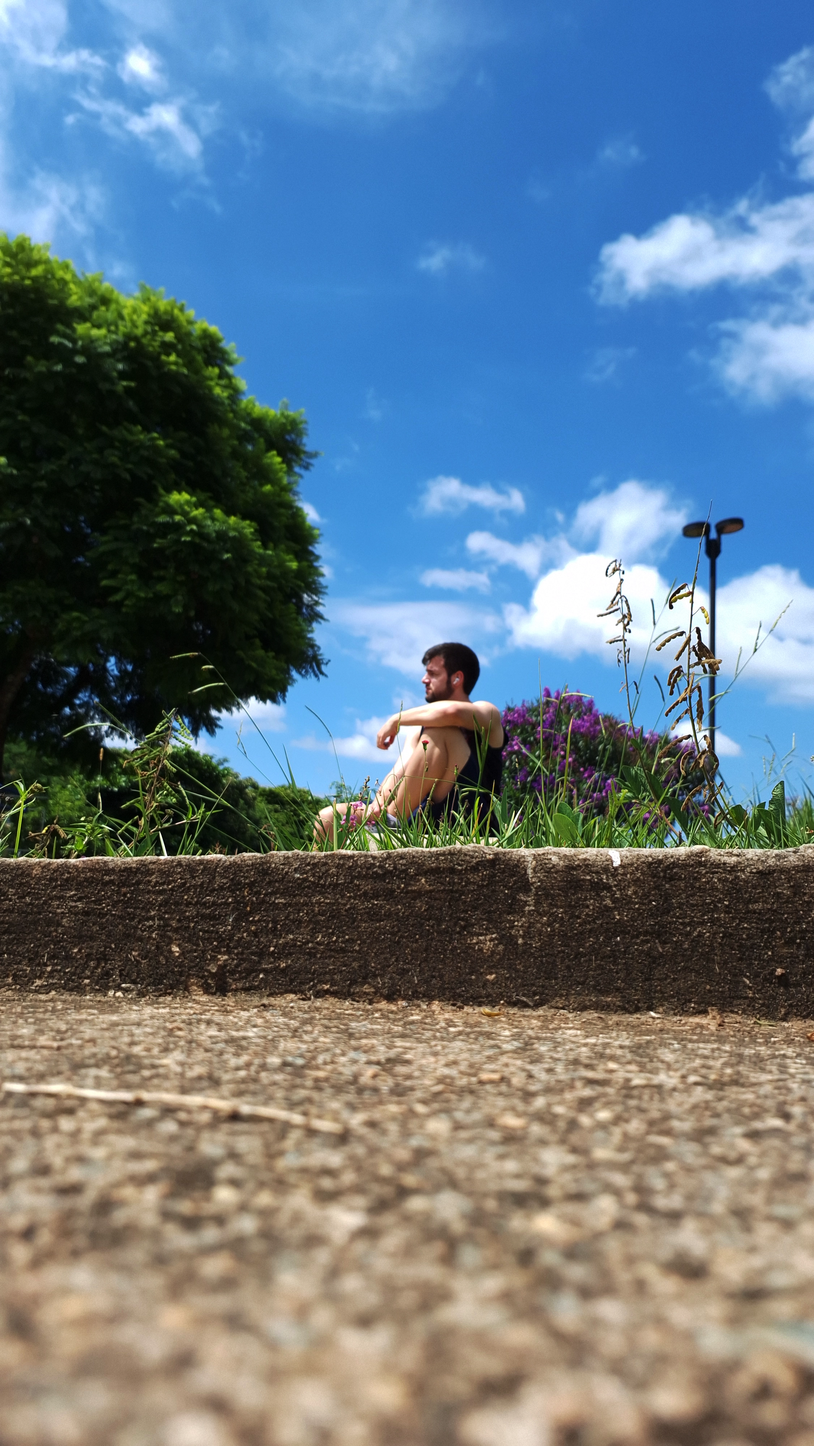
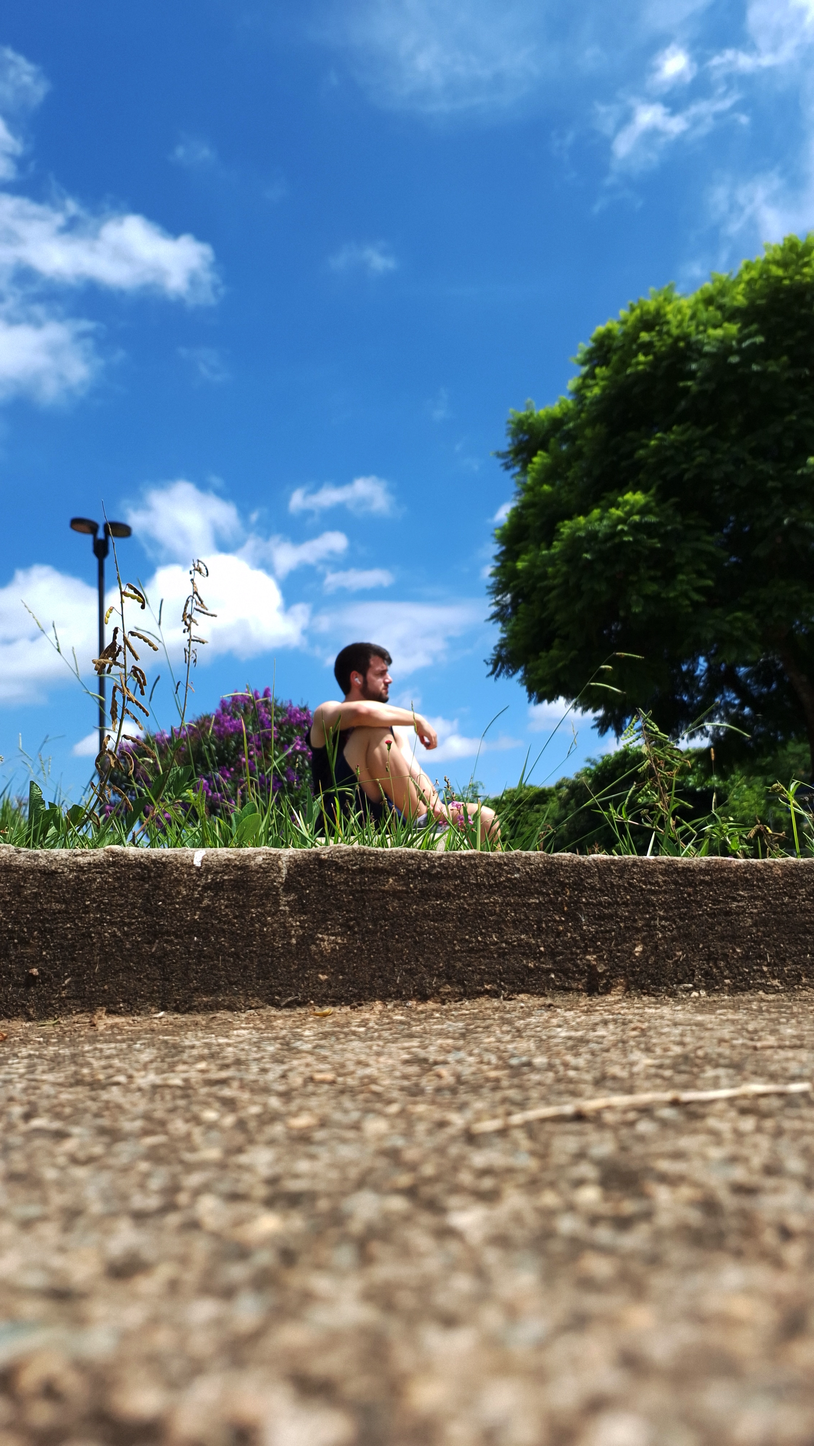
:wrench: chore: change photo directions

diff --git a/src/components/Header/HeaderMenu/index.tsx b/src/components/Header/HeaderMenu/index.tsx
@@ -21,7 +21,7 @@ const items = [
   },
   {
     name: 'Services',
-    link: 'https://felipescherer.com',
+    link: 'https://services.fennectales.com',
   },
   {
     name: 'Projects',
@@ -29,7 +29,7 @@ const items = [
   },
   {
     name: 'Blog',
-    link: 'https://blog.felipescherer.com',
+    link: 'https://fennectales.com',
   },
   {
     name: 'Now',
@@ -49,26 +49,26 @@ export function HeaderMenu() {
       </button>
 
       {
-      isMenuOpen && (
-        <button type="button" onClick={() => setIsMenuOpen(false)} className="fixed right-0 top-0 h-full w-full cursor-default bg-[#000000af]" />
-      )
+        isMenuOpen && (
+          <button type="button" onClick={() => setIsMenuOpen(false)} className="fixed right-0 top-0 h-full w-full cursor-default bg-[#000000af]" />
+        )
       }
 
       {
-      isMenuOpen && (
-        <div className="fixed right-0 top-0 flex h-full flex-col items-start gap-4 bg-layer-1 px-8 pt-8">
-          <button type="button" onClick={() => setIsMenuOpen(false)} className="text-on-layer-0-l2 transition-colors hover:text-brand-primary focus:text-brand-primary">
-            <LucideX />
-          </button>
+        isMenuOpen && (
+          <div className="fixed right-0 top-0 flex h-full flex-col items-start gap-4 bg-layer-1 px-8 pt-8">
+            <button type="button" onClick={() => setIsMenuOpen(false)} className="text-on-layer-0-l2 transition-colors hover:text-brand-primary focus:text-brand-primary">
+              <LucideX />
+            </button>
 
-          {items.map(item => (
-            <Link onClick={() => setIsMenuOpen(false)} key={item.name} href={item.link} className={`border-b transition-all hover:border-brand-primary hover:text-brand-hover-primary ${currentPath === item.link ? 'border-brand-primary text-brand-primary' : 'border-transparent text-on-layer-0-l2 '}`}>{item.name}</Link>
-          ))}
+            {items.map(item => (
+              <Link onClick={() => setIsMenuOpen(false)} key={item.name} href={item.link} className={`border-b transition-all hover:border-brand-primary hover:text-brand-hover-primary ${currentPath === item.link ? 'border-brand-primary text-brand-primary' : 'border-transparent text-on-layer-0-l2 '}`}>{item.name}</Link>
+            ))}
 
-          <LocaleSwitcher />
-        </div>
-      )
-    }
+            <LocaleSwitcher />
+          </div>
+        )
+      }
 
     </>
   )

diff --git a/src/utils/owner.config.ts b/src/utils/owner.config.ts
@@ -6,9 +6,9 @@ export const OWNER_CONFIGS = {
   name: 'Felipe Scherer',
   user: 'fescherer',
   description: 'This is a blog owned by Felipe Scherer, and we write about technology, specially coding and design, bringing ideias and how to build them 😊 Feel free to contact us on our socials. 📱',
-  rss: 'https://blog.felipescherer.com/feed.xml',
+  rss: 'https://fennectales.com/feed.xml',
   github_link: 'https://github.com/fescherer',
   linkedin_link: 'https://www.linkedin.com/in/fescherer',
-  blog_link: 'https://blog.felipescherer.com',
+  blog_link: 'https://fennectales.com',
   email: 'felipescherer25@gmail.com',
 }

diff --git a/src/features/Homepage/components/AboutMe/components/Carrousel/index.tsx b/src/features/Homepage/components/AboutMe/components/Carrousel/index.tsx
@@ -7,10 +7,9 @@ Add carrousel animation, this probably will need a 3th party lib
 */
 const photos = [
   'bg-[url(/felipe-scherer/photo-flower.webp)]',
-  'bg-[url(/felipe-scherer/big-shoes.webp)]',
-  'bg-[url(/felipe-scherer/black-white.webp)]',
+  'bg-[url(/felipe-scherer/smile.webp)]',
+  'bg-[url(/felipe-scherer/photo-flower-sunflower.webp)]',
   'bg-[url(/felipe-scherer/coconout.webp)]',
-  'bg-[url(/felipe-scherer/dark-side.webp)]',
 ]
 
 export function Carrousel() {

diff --git a/src/app/[lang]/now/page.tsx b/src/app/[lang]/now/page.tsx
@@ -25,7 +25,7 @@ export default function Now() {
 
       <p>
         Writing my
-        <Link className="design-link ml-1" href="https://blog.felipescherer.com" target="_blank">blog</Link>
+        <Link className="design-link ml-1" href="https://fennectales.com" target="_blank">blog</Link>
         .
       </p>
 

diff --git a/tailwind.config.ts b/tailwind.config.ts
@@ -69,7 +69,7 @@ const config: Config = {
         '7xl': ['4.5rem', '1.5'],
       },
       backgroundImage: {
-        profile: 'url(https://github.com/fescherer.png)',
+        profile: 'url(/felipe-scherer/aboutme/me.webp)',
       },
       keyframes: {
         twinkleKeyFrame: {
